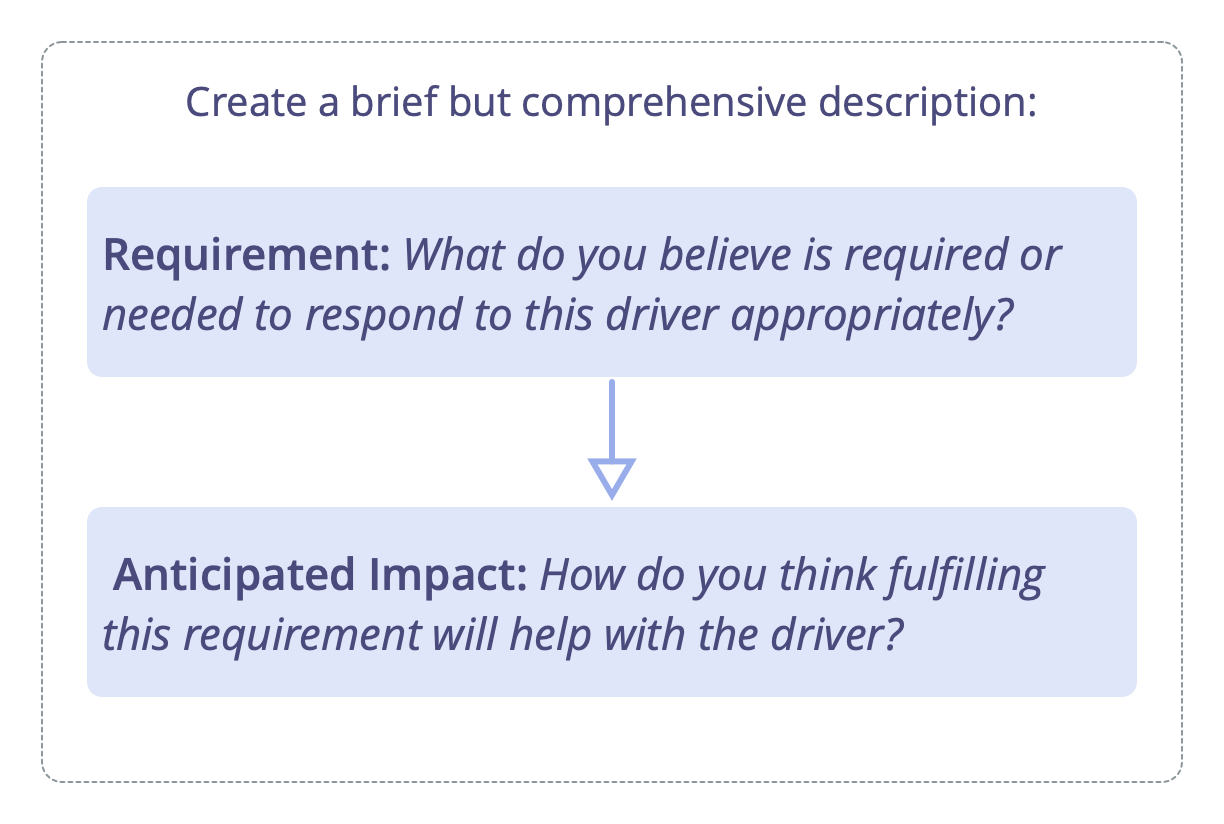
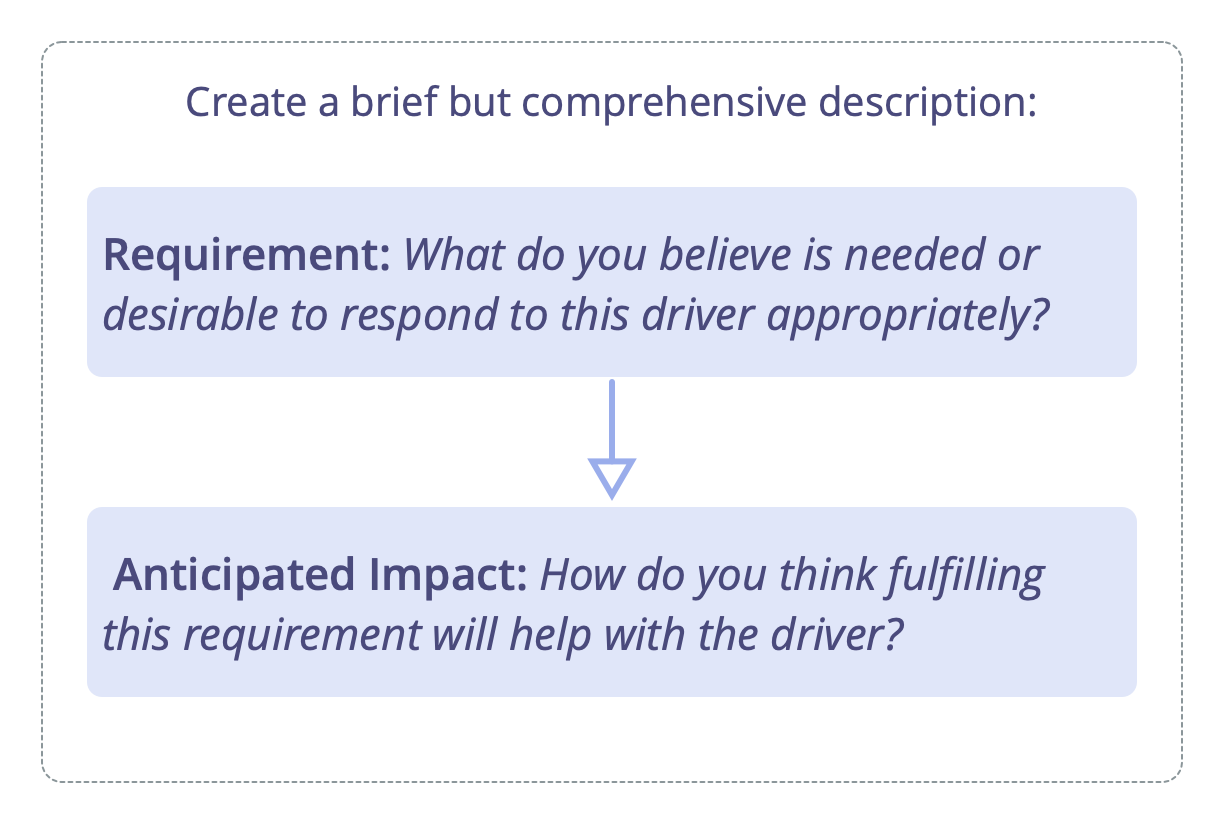
updated text about requirement (also in illustration)

Changed region(s): [[0.0931, 0.3641, 0.8693, 0.4248], [0.683, 0.2731, 0.8693, 0.3337]]

diff --git a/content/src/patterns/sense-making-and-decision-making/determine-requirements.md b/content/src/patterns/sense-making-and-decision-making/determine-requirements.md
@@ -66,9 +66,7 @@ In complex situations where multiple and sometimes even contradictory options ex
 
 An organizational driver is a situation that the organization would benefit from responding to. A requirement however, is a decision that defines direction and scope for a suitable response. When determining what requirement would be suitable, it's helpful to consider:
 
-
-
--   **The requirement**: what you believe is required or needed to respond to this driver appropriately
+-   **The requirement**: what you believe is needed or desirable to respond to this driver appropriately
 -   **The anticipated impact**: how you think fulfilling the requirement will help with the driver.
 
 
@@ -80,7 +78,6 @@ When addressing a complex driver, or when deciding how to respond to an organiza
 
 If people bring contradictory suggestions about what's required, this is sometimes an indicator that they're too much in the solution space. In this case it can be helpful to zoom out and try to identify a requirement that some or all of these solutions might help to fulfill.
 
-
 -   Be specific on whose requirement it is (e.g. "we need", "they need", "I need") 
 -   Avoid describing specific solutions disguised as requirements (see "Requirement vs. Solution" below)
 
@@ -91,7 +88,6 @@ Sometimes further investigation of the driver or experimentation to test assumpt
 
 When describing the anticipated impact, explain what you anticipate the consequence of fulfilling the requirement will lead to, and how this is relevant in relation to the driver.
 
-
 -   Explain potential benefits, opportunities, or even the [intended outcome](glossary:intended-outcome) of responding to the requirement _in relation to the driver_.
 -   Making the impact explicit constraints the scope of the response and helps evaluating the effectiveness of the response in relation the driver 
 
@@ -101,7 +97,6 @@ When describing the anticipated impact, explain what you anticipate the conseque
 The requirement provides a general direction and clarifies the scope for possible solutions. A solution on the other hand is a specific course of action that fulfills a requirement.
 
 Example:
-
 
 -   **Requirement:** _We need to store and share relevant information effectively, to improve everyone's ability to provide valuable solutions for our customers._
 -   **Solution**: _A simple and comprehensive information architecture for Confluence, and a coordinated effort to migrate all existing information into that structure._
